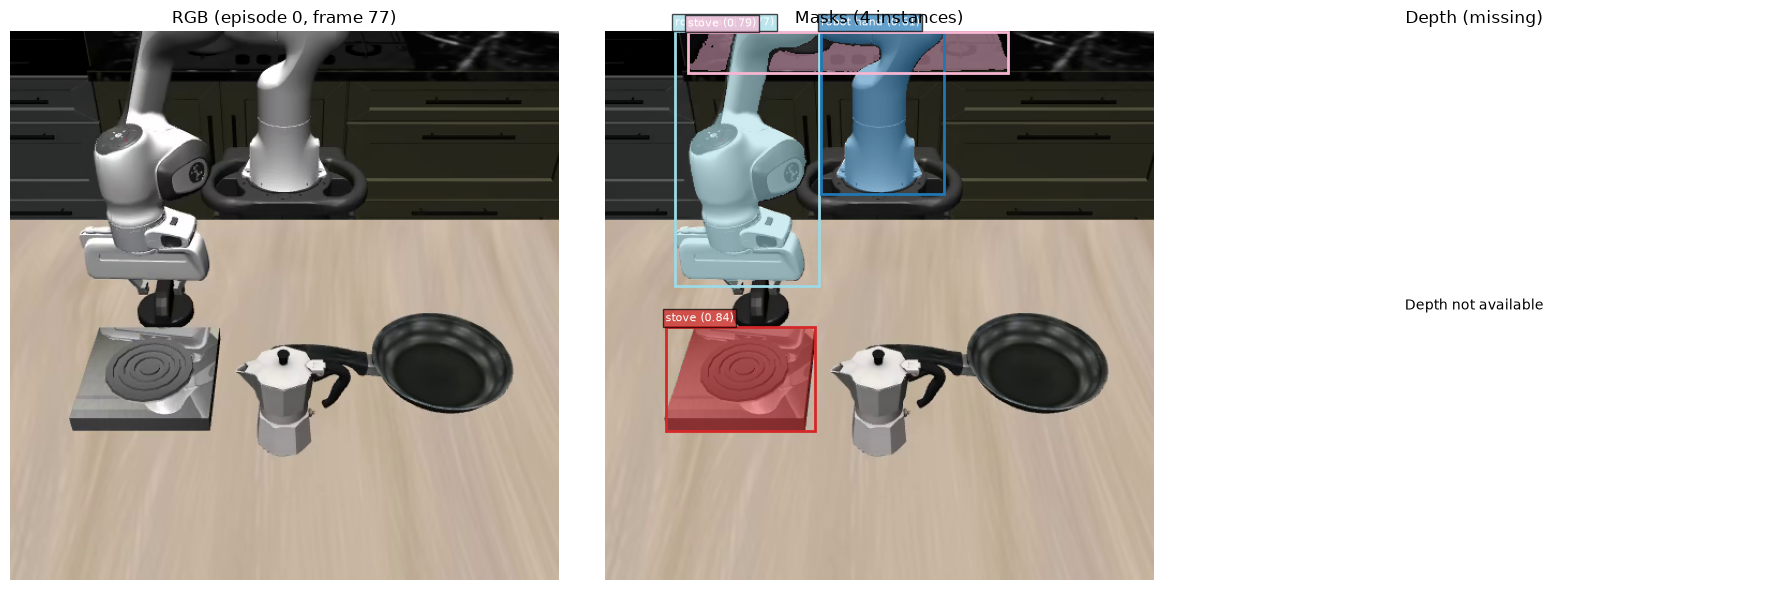
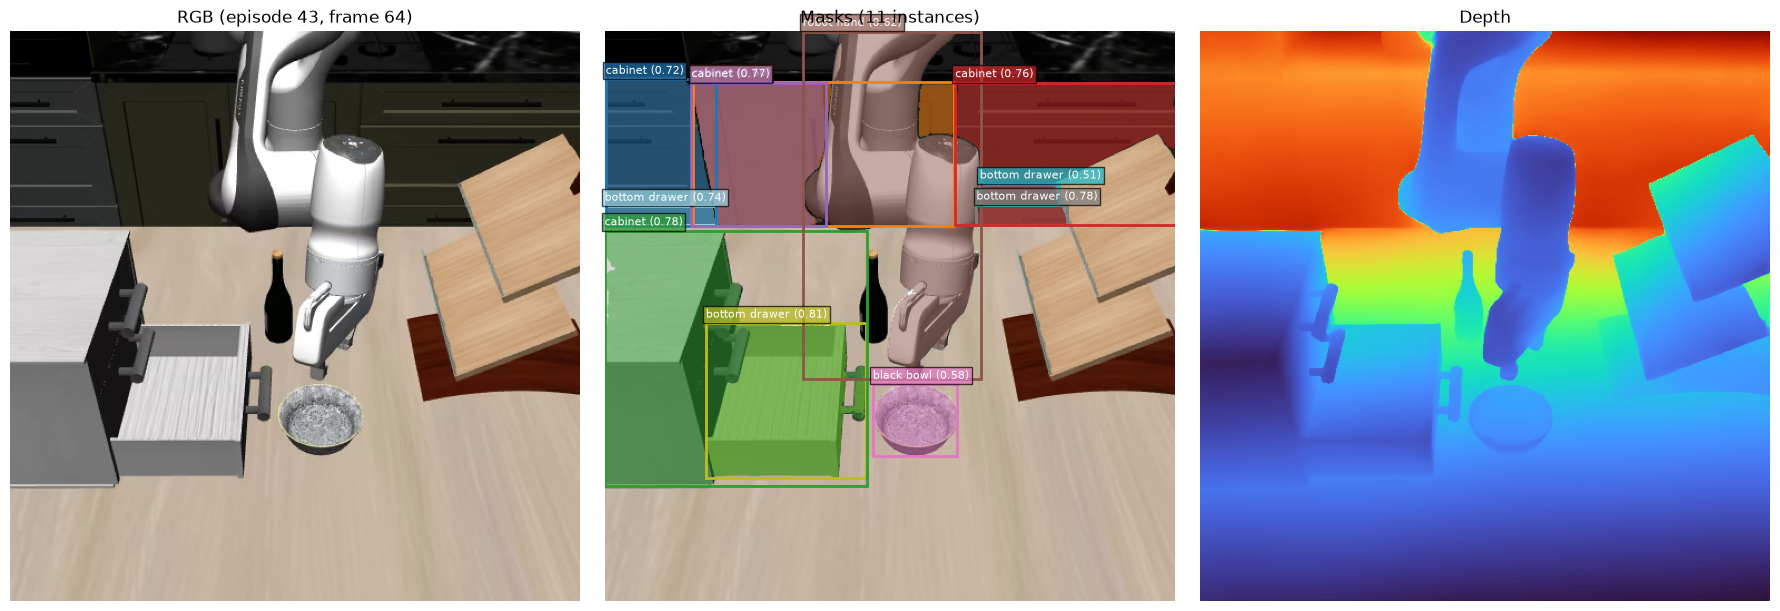
docs: replace LIBERO QC with full RGB|masks|metric-depth triptych

diff --git a/README.md b/README.md
@@ -91,12 +91,12 @@ python run_annotate.py configs/lerobot_so100_smoke.yaml --stage segmentation  # 
 
 ## Results (validated on LIBERO, LeRobot v3)
 
-End-to-end SAM3 segmentation run on LIBERO manipulation episodes (`configs/lerobot_libero_smoke.yaml`):
-**132 mask instances** across sampled frames, mean confidence **0.70**, with clean object
-categories (`stove`, `moka pot`, `cabinet`, `bottom drawer`, `microwave`, `black bowl`,
-`yellow and white mug`, `robot hand`). QC triptych (RGB | instance masks | depth):
+End-to-end run on LIBERO manipulation episodes (`configs/lerobot_libero_depth.yaml --stage both`):
+SAM3 instance masks **and** Depth-Anything-3 **metric** depth on the same sampled frames, with
+clean object categories (`stove`, `moka pot`, `cabinet`, `bottom drawer`, `microwave`,
+`black bowl`, `yellow and white mug`, `robot hand`). QC triptych (RGB | instance masks | metric depth):
 
-![LIBERO segmentation QC](docs/libero_qc_example.png)
+![LIBERO QC triptych: RGB, SAM3 masks, DA3 metric depth](docs/libero_qc_example.png)
 
 **Discovery: `rule` vs `qwen` extractor.** A locally self-hosted Qwen (vLLM, OpenAI-compatible
 endpoint) removes the rule extractor's dirty long-phrase / fragment queries